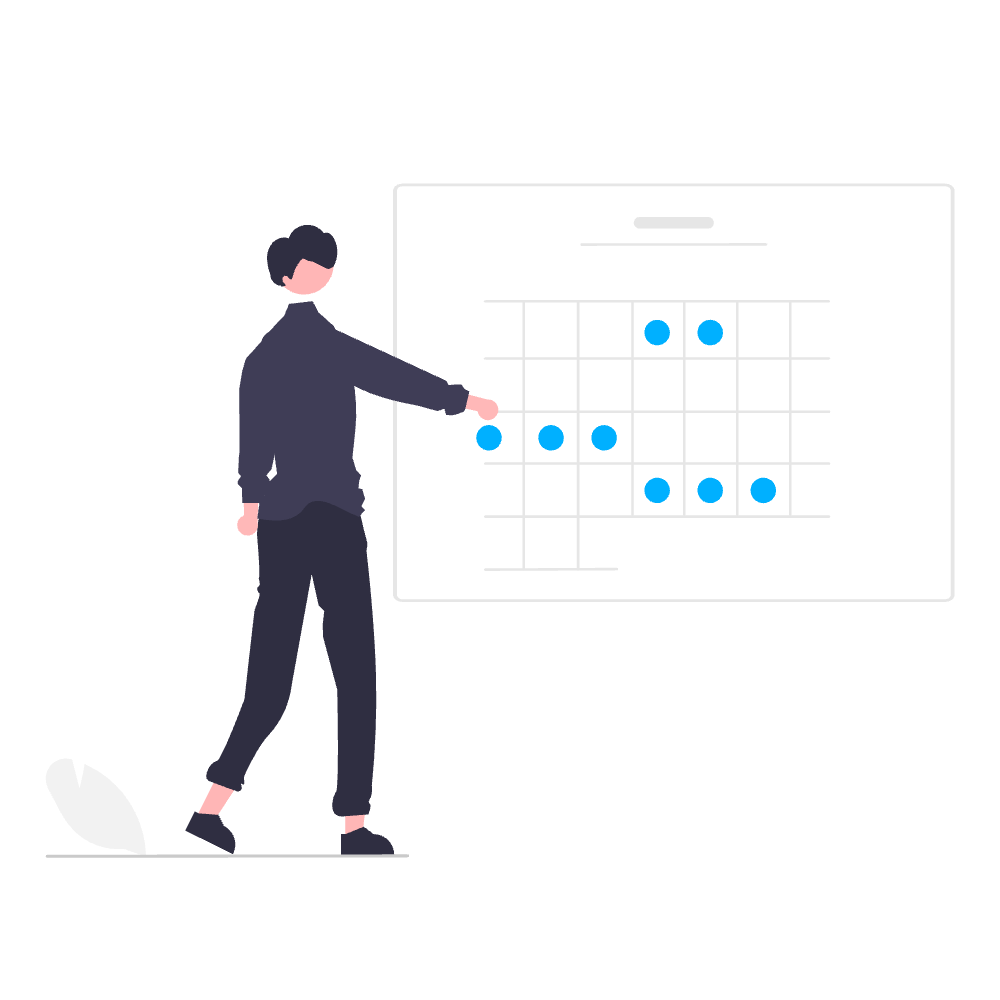
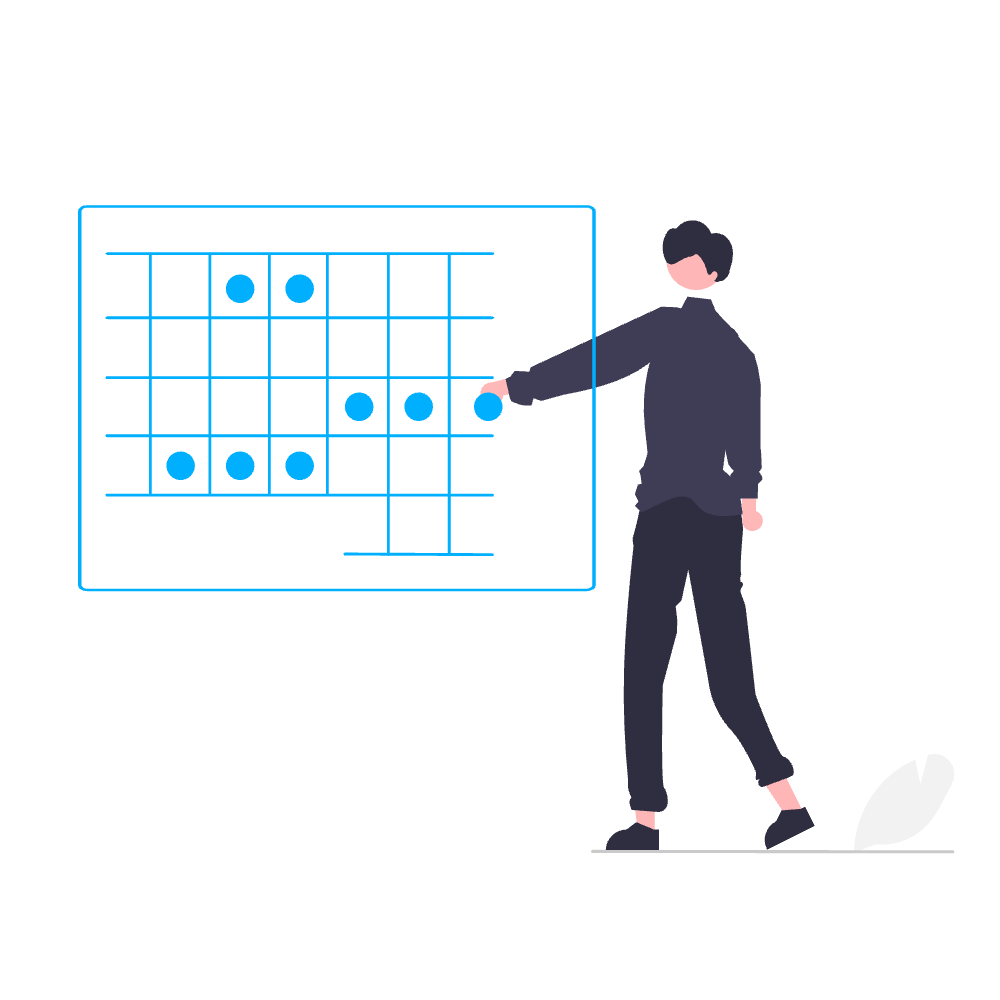
replace calendar pic and supervisor db

diff --git a/src/containers/SupervisorDashboardPage.js b/src/containers/SupervisorDashboardPage.js
@@ -4,6 +4,7 @@ import { VictoryBar, VictoryChart, VictoryPie, VictoryTheme } from "victory";
 import Box from "@mui/material/Box";
 import Stack from "@mui/material/Stack";
 import { Typography } from "@mui/material";
+import { PageTitle } from "../components/atoms/PageTitle";
 
 const genderPreference = [
   { x: "female", y: 35 },
@@ -25,14 +26,17 @@ const carerDays = [
 export const SupervisorDashboardPage = () => {
   return (
     <div>
-      <Typography component="h1" variant="h4" align="center" sx={{ p: 3 }}>
-        My Team
-      </Typography>
+      <PageTitle title="My Team" />
 
       <Stack direction="row" justifyContent="center" alignItems="center">
         <Box sx={{ height: 400 }}>
-          <Typography component="h1" variant="h5" align="center" sx={{ mb: 2 }}>
-            Overall gender preferences distribution
+          <Typography
+            component="h4"
+            variant="h6"
+            align="center"
+            sx={{ mb: 2, fontWeight: "100", color: "#00b0ff", fontSize: 16 }}
+          >
+            Overall Gender Preferences Distribution
           </Typography>
           <VictoryPie
             colorScale={["pink", "#61dafb", "grey"]}
@@ -40,14 +44,24 @@ export const SupervisorDashboardPage = () => {
           />
         </Box>
         <Box sx={{ height: 400 }}>
-          <Typography component="h1" variant="h5" align="center" sx={{ mb: 2 }}>
-            Overall gender distribution
+          <Typography
+            component="h4"
+            variant="h6"
+            align="center"
+            sx={{ mb: 2, fontWeight: "100", color: "#00b0ff", fontSize: 16 }}
+          >
+            Overall Gender Distribution
           </Typography>
           <VictoryPie colorScale={["pink", "#61dafb", "grey"]} data={gender} />
         </Box>
         <Box sx={{ height: 400 }}>
-          <Typography component="h1" variant="h5" align="center" sx={{ mb: 2 }}>
-            Carers availability - Distribution over weekdays
+          <Typography
+            component="h4"
+            variant="h6"
+            align="center"
+            sx={{ mb: 2, fontWeight: "100", color: "#00b0ff", fontSize: 16 }}
+          >
+            Carer Availability - Distribution Over Weekdays
           </Typography>
           <VictoryChart theme={VictoryTheme.material} domainPadding={10}>
             <VictoryBar

diff --git a/src/containers/CarerCalendarPage.js b/src/containers/CarerCalendarPage.js
@@ -117,8 +117,8 @@ export const CarerCalendarPage = () => {
           mb: 3,
           p: 3,
           minWidth: isMobile ? "90%" : "400px",
-          marginLeft: isMobile ? 0 : 18,
-          marginRight: isMobile ? 0 : 18,
+          marginLeft: isMobile ? 1 : 18,
+          marginRight: isMobile ? 1 : 18,
           color: "#00b0ff2e",
           background: `linear-gradient(
             to top,
